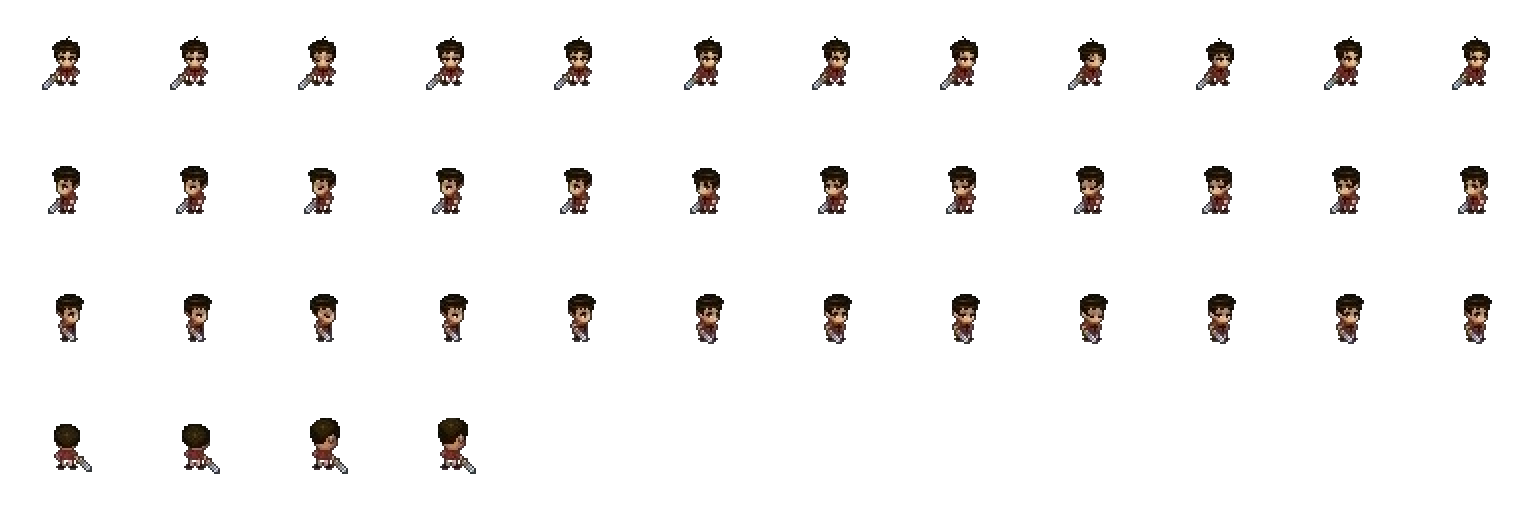
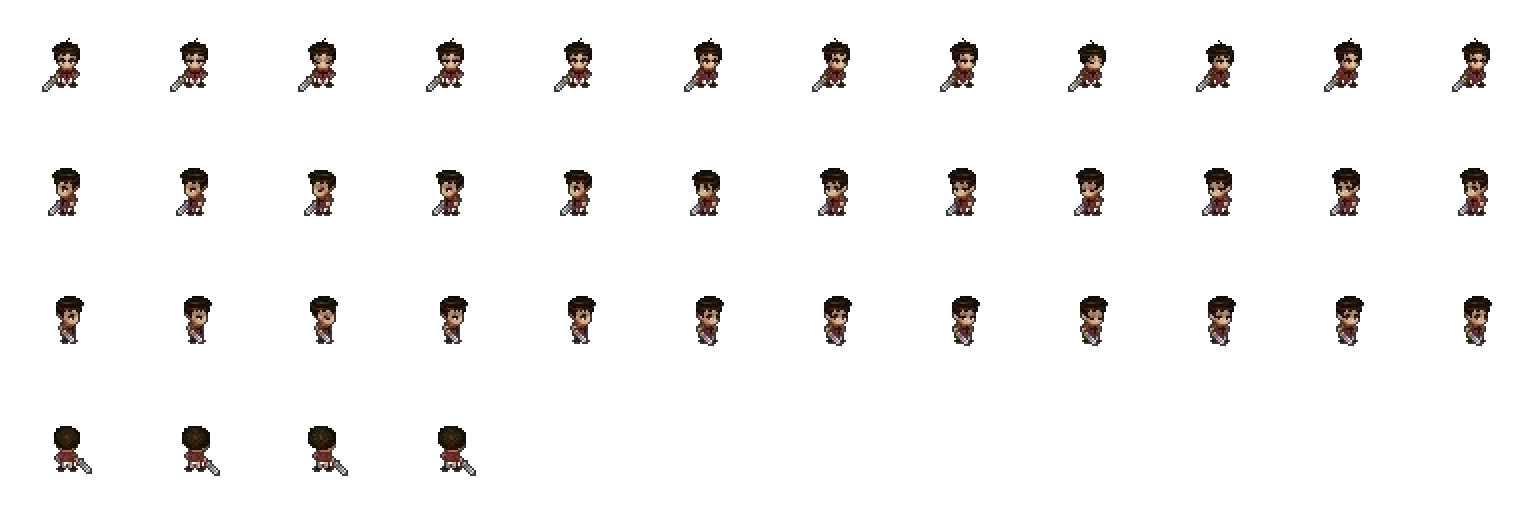
hidden card

diff --git a/css/game_card.css b/css/game_card.css
@@ -11,6 +11,12 @@
     width: 700px;
 }
 
+.container-fluid.game-container.hidden {
+    transform: translate(100%, -50%);
+    opacity: 0;
+    pointer-events: none;
+}
+
 .game-card {
     background-color: rgba(33, 37, 41, 0.2) !important;
     backdrop-filter: blur(8px);
@@ -173,4 +179,45 @@
     .play-button {
         width: 100%;
     }
+}
+
+
+.toggle-card-btn {
+    position: fixed;
+    right: 20px;
+    top: 50%;
+    transform: translateY(-50%);
+    background-color: rgba(33, 37, 41, 0.2);
+    backdrop-filter: blur(8px);
+    border: 1px solid rgba(255, 255, 255, 0.1);
+    color: white;
+    width: 40px;
+    height: 40px;
+    border-radius: 50%;
+    display: flex;
+    align-items: center;
+    justify-content: center;
+    cursor: pointer;
+    font-size: 24px;
+    z-index: 1000;
+    transition: all 0.3s ease;
+}
+
+.toggle-card-btn:hover {
+    background-color: rgba(33, 37, 41, 0.4);
+    transform: translateY(-50%) scale(1.1);
+}
+
+.toggle-card-btn.active {
+    transform: translateY(-50%) rotate(180deg);
+}
+
+.container-fluid {
+    transition: transform 0.3s ease, opacity 0.3s ease;
+}
+
+.container-fluid.hidden {
+    transform: translateX(100%);
+    opacity: 0;
+    pointer-events: none;
 }

diff --git a/css/monster.css b/css/monster.css
@@ -44,22 +44,22 @@
 
 @keyframes monsterWalkDown {
     from { background-position: 0px 0px; }
-    to { background-position: -512px 0px; }
+    to { background-position: -448px 0px; }
 }
 
 @keyframes monsterWalkLeft {
     from { background-position: 0px -64px; }
-    to { background-position: -512px -64px; }
+    to { background-position: -448px -64px; }
 }
 
 @keyframes monsterWalkRight {
     from { background-position: 0px -128px; }
-    to { background-position: -512px -128px; }
+    to { background-position: -448px -128px; }
 }
 
 @keyframes monsterWalkUp {
     from { background-position: 0px -192px; }
-    to { background-position: -512px -192px; }
+    to { background-position: -448px -192px; }
 }
 
 @keyframes monsterHurtDown {

diff --git a/js/game_card.js b/js/game_card.js
@@ -79,3 +79,20 @@ function selectGame(index) {
         }, 50);
     }, 300);
 }
+
+function toggleCard() {
+    const toggleBtn = document.querySelector('.toggle-card-btn');
+    const cardContainer = document.querySelector('.container-fluid.game-container');
+    
+    toggleBtn.classList.toggle('active');
+    cardContainer.classList.toggle('hidden');
+}
+
+document.addEventListener('DOMContentLoaded', () => {
+    const scene = document.querySelector('.scene');
+    const toggleBtn = document.createElement('div');
+    toggleBtn.className = 'toggle-card-btn';
+    toggleBtn.innerHTML = '⇨';
+    toggleBtn.addEventListener('click', toggleCard);
+    scene.appendChild(toggleBtn);
+});

diff --git a/index.html b/index.html
@@ -91,8 +91,7 @@
             
 
                 <!-- Card -->
-            <div class="toggle-card-btn">⇨</div>
-            <div class="container-fluid">
+            <div class="container-fluid game-container">
                 <div class="row justify-content-end">
                     <div class="col-md-6 offset-md-3 d-flex">
                         <div class="game-card card">
@@ -133,7 +132,7 @@
 
         <div style="height: 50px;">
             <h2>About!</h2>
-            <p>This is my site.</p>
+            <p>All rights reserved.</p>
         </div>
         </h6>
 
